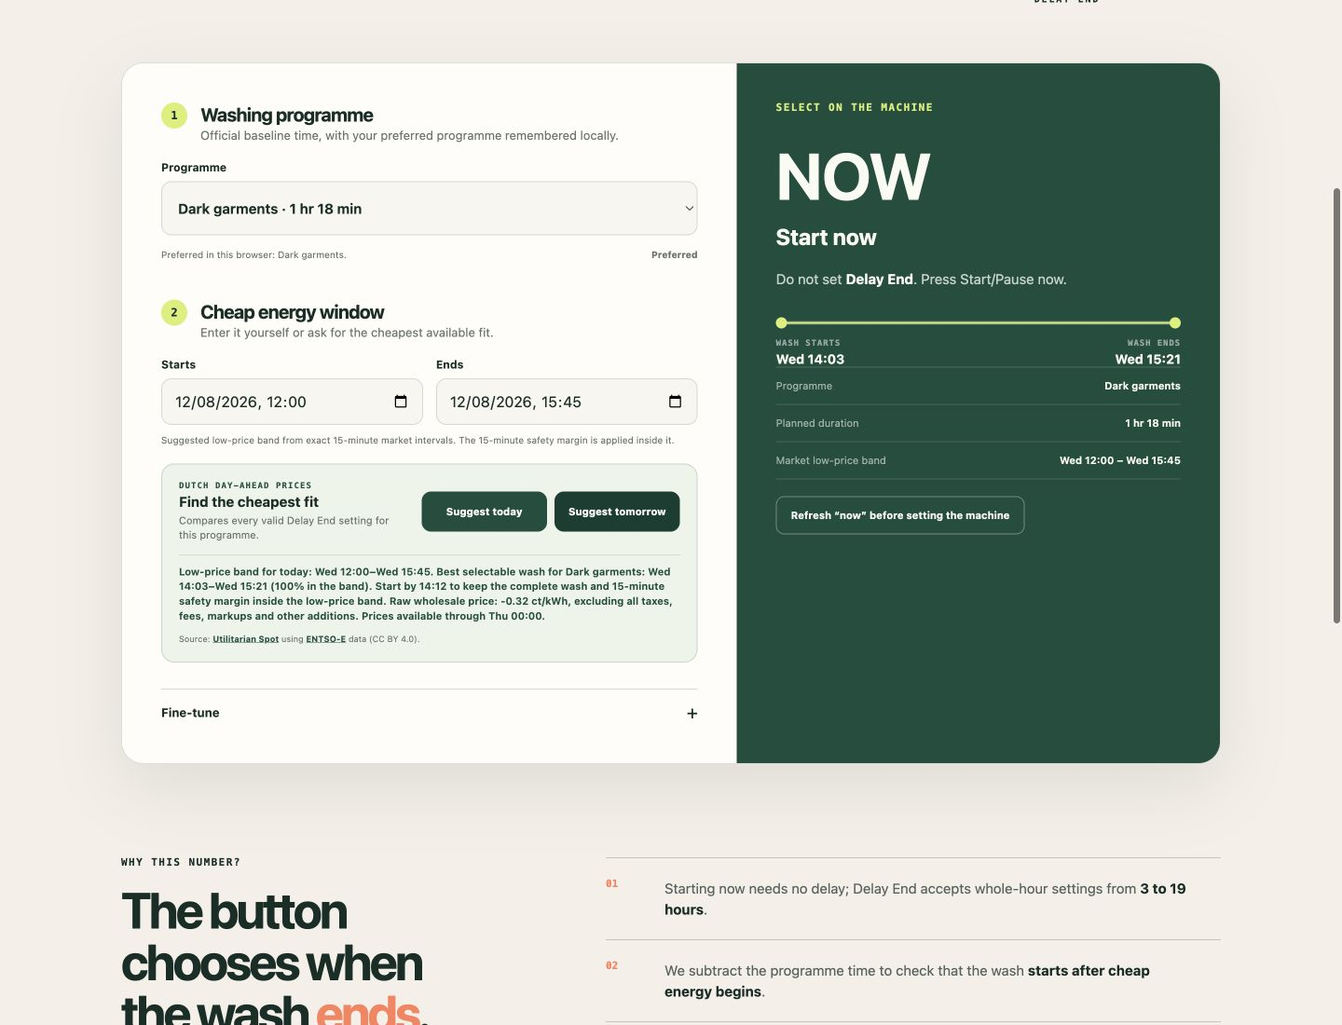
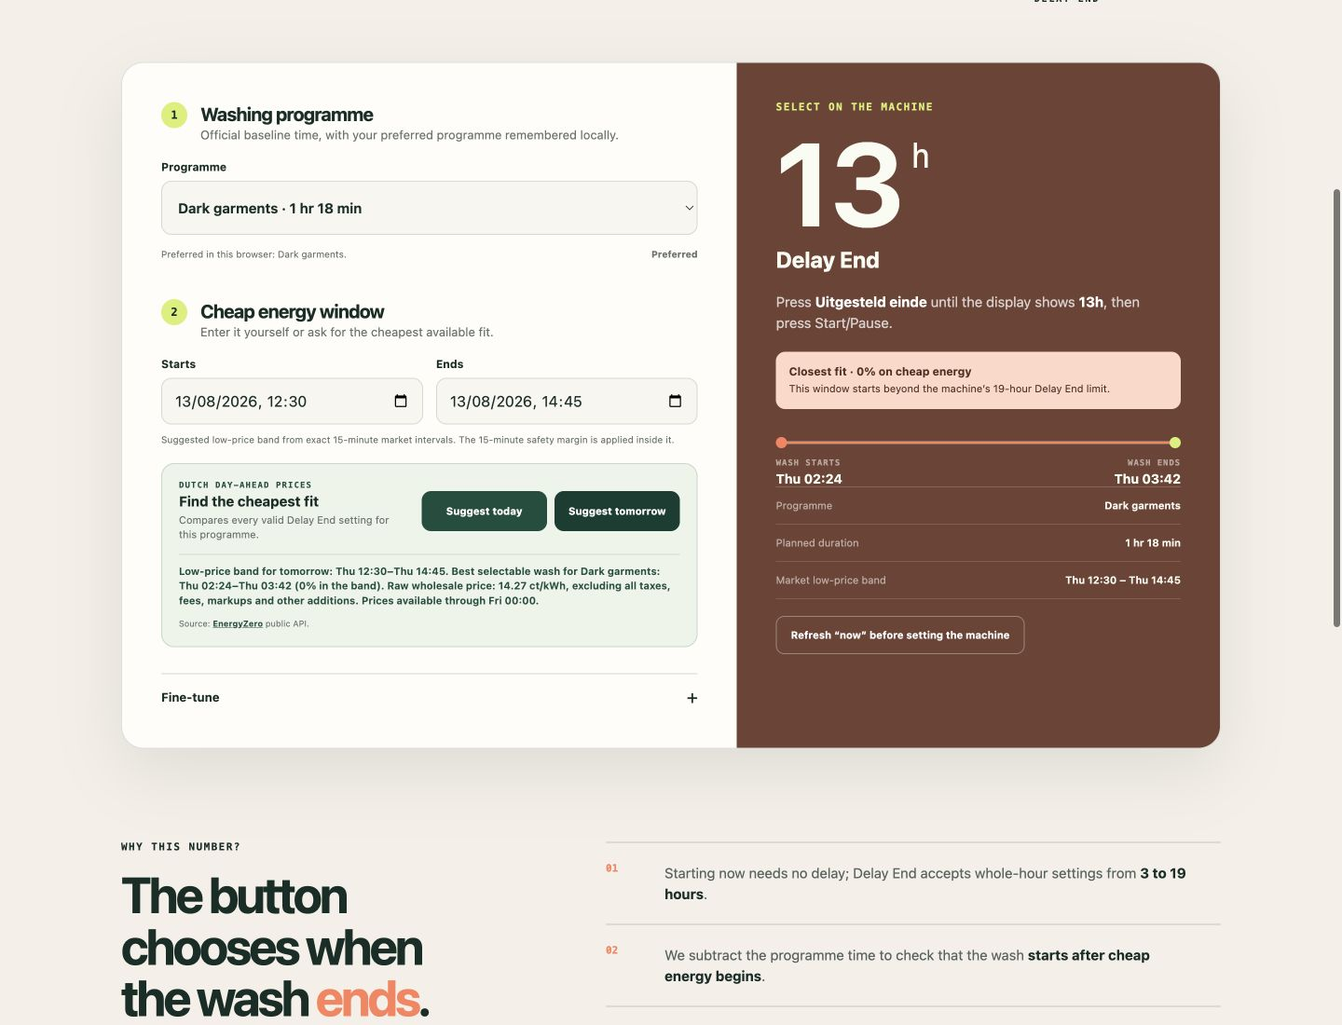
Switch market prices to EnergyZero

diff --git a/html/i18n.js b/html/i18n.js
@@ -8,7 +8,7 @@
       heroEyebrow: "CHEAP-ENERGY WASH PLANNER", heroTitle: "Set the delay.<br>Skip the maths.", heroIntro: "Tell me when electricity is cheap and what you’re washing. I’ll tell you exactly what to select on <strong>Delay End</strong>.", delayEnd: "DELAY END",
       plannerLabel: "Delay End calculator", programHeading: "Washing programme", programIntro: "Official baseline time, with your preferred programme remembered locally.", programLabel: "Programme",
       windowHeading: "Cheap energy window", windowIntro: "Enter it yourself or ask for the cheapest available fit.", starts: "Starts", ends: "Ends", manualWindow: "Manual cheap-energy window.", marketWindow: "Suggested low-price band from exact 15-minute market intervals. The {margin}-minute safety margin is applied inside it.",
-      marketEyebrow: "DUTCH DAY-AHEAD PRICES", marketHeading: "Find the cheapest fit", marketIntro: "Compares every valid Delay End setting for this programme.", suggestToday: "Suggest today", suggestTomorrow: "Suggest tomorrow", checking: "Checking…", marketDefault: "The shown price is the raw wholesale market price, excluding all taxes, fees, supplier markups and other additions. Fetched only when you ask.", marketSource: "Source: <a href=\"https://spot.utilitarian.io/developer/\" rel=\"noreferrer\">Utilitarian Spot</a> using <a href=\"https://transparency.entsoe.eu/\" rel=\"noreferrer\">ENTSO-E</a> data (CC BY 4.0).",
+      marketEyebrow: "DUTCH DAY-AHEAD PRICES", marketHeading: "Find the cheapest fit", marketIntro: "Compares every valid Delay End setting for this programme.", suggestToday: "Suggest today", suggestTomorrow: "Suggest tomorrow", checking: "Checking…", marketDefault: "The shown price is the raw wholesale market price, excluding all taxes, fees, supplier markups and other additions. Fetched only when you ask.", marketSource: "Source: <a href=\"https://consumenten.energyzero.nl/actuele-tarieven\" rel=\"noreferrer\">EnergyZero</a> public API.",
       fineTune: "Fine-tune", tuneHeading: "Make it match your machine", tuneIntro: "Optional—defaults already work.", settingAt: "Setting the machine at", now: "Now", measured: "Your measured programme time", savedDevice: "Saved on this device.", margin: "Edge safety margin", noMargin: "No margin", minutes: "{count} minutes", addPrewash: "Add prewash", prewashNote: "Samsung says this adds about 18 minutes.",
       selectMachine: "SELECT ON THE MACHINE", readyHeading: "Ready when you are", readyText: "Choose a valid window to see the Delay End setting.",
       whyEyebrow: "WHY THIS NUMBER?", whyTitle: "The button chooses when the wash <em>ends</em>.", why1: "Starting now needs no delay; Delay End accepts whole-hour settings from <strong>3 to 19 hours</strong>.", why2: "We subtract the programme time to check that the wash <strong>starts after cheap energy begins</strong>.", why3: "We centre the cycle in the window where possible, leaving room for <strong>real-world timing drift</strong>.",
@@ -16,7 +16,7 @@
       compatibility: "COMPATIBILITY", compatibilityTitle: "Built for one Samsung family.<br><em>More machines later.</em>", compatibilityIntro: "The timings and Delay End rules currently come from one shared Samsung manual. No other brand is assumed compatible yet.", verified: "PHYSICALLY VERIFIED", exactMachine: "The exact machine used to create and check this calculator.", sameManual: "SAME SAMSUNG MANUAL", familyText: "Y4BK and B4BK families are covered by the same official programme table. Regional suffixes may differ.", future: "FUTURE", otherModels: "Other brands &amp; models", futureText: "The programme data is isolated in the app, ready for model selection and additional verified manuals later.", footerText: "Made for one very specific Samsung—and one less piece of mental arithmetic.", githubRepo: "View source on GitHub",
       dialGroup: "Dial programmes", quickGroup: "Quick wash button", cotton: "Cotton", synthetics: "Synthetics", jeans: "Jeans", bedding: "Bedding", dark: "Dark garments", daily: "Daily wash", drum: "Eco drum clean", baby: "Baby care", sports: "Outdoor care", hand: "Hand wash", wool: "Wool", quick: "Quick wash · {minutes} min",
       durationMin: "{minutes} min", durationHour: "{hours} hr", durationHoursMinutes: "{hours} hr {minutes} min", savedFor: "Saved on this device for {program}.", preferredInBrowser: "Preferred in this browser: {program}.", preferred: "Preferred", makePreferred: "Make selected preferred",
-      settingsChanged: "The settings changed. Ask again to recalculate the cheapest fit.", invalidPlanning: "Choose a valid machine-setting time first.", fetching: "Fetching the latest published Dutch day-ahead prices…", noDayFit: "No complete wash fits {day} using Start now or the machine’s 3–19 hour Delay End range.", tomorrowUnavailable: "Tomorrow’s prices are not available yet. Try again after publication, usually around 13:00.", marketSuccess: "Low-price band for {day}: {lowStart}–{lowEnd}. Best selectable wash for {program}: {start}–{end} ({percent}% in the band). {deadline} Raw wholesale price: {price} ct/kWh, excluding all taxes, fees, markups and other additions. Prices available through {available}.", startDeadline: "Start by {deadline} to keep the complete wash and {margin}-minute safety margin inside the low-price band.", startDeadlinePassed: "The {deadline} safe-start deadline has passed.", marketError: "Live prices could not be loaded. Manual window entry still works; please try the suggestion again later.", today: "today", tomorrow: "tomorrow",
+      settingsChanged: "The settings changed. Ask again to recalculate the cheapest fit.", invalidPlanning: "Choose a valid machine-setting time first.", fetching: "Fetching the latest published Dutch day-ahead prices…", noDayFit: "No complete wash fits {day} using Start now or the machine’s 3–19 hour Delay End range.", tomorrowUnavailable: "Tomorrow’s prices are not available from EnergyZero yet. They are normally published around 15:00; please try again later.", marketSuccess: "Low-price band for {day}: {lowStart}–{lowEnd}. Best selectable wash for {program}: {start}–{end} ({percent}% in the band). {deadline} Raw wholesale price: {price} ct/kWh, excluding all taxes, fees, markups and other additions. Prices available through {available}.", startDeadline: "Start by {deadline} to keep the complete wash and {margin}-minute safety margin inside the low-price band.", startDeadlinePassed: "The {deadline} safe-start deadline has passed.", marketError: "Live prices could not be loaded. Manual window entry still works; please try the suggestion again later.", today: "today", tomorrow: "tomorrow",
       invalidDate: "Choose a valid date and time.", invalidWindow: "The cheap-price end must be after its start.", noWholeFit: "No whole-hour Delay End setting keeps this complete cycle inside the window.", tooLong: "This programme is longer than the cheap-price window (including your margin).", tooEarly: "This window ends before the machine’s minimum 3-hour Delay End setting.", tooLate: "This window starts beyond the machine’s 19-hour Delay End limit.", safetyMessage: "The complete wash fits inside the displayed window, but the requested {margin}-minute safety margin is short by {used} minutes.", safetyTitle: "Fits window · safety margin short by {shortfall} min", closestTitle: "Closest fit · {percent}% on cheap energy",
       checkWindow: "Check the window", instruction: "Press <strong>Uitgesteld einde</strong> until the display shows <strong id=\"delay-inline\"></strong>, then press Start/Pause.", instructionNow: "Do not set <strong>Delay End</strong>. Press Start/Pause now.", startNowHeading: "Start now", nowReadout: "NOW", expectedTiming: "Expected wash timing", washStarts: "WASH STARTS", washEnds: "WASH ENDS", plannedDuration: "Planned duration", windowSummary: "Cheap window", marketBandSummary: "Market low-price band", refresh: "Refresh “now” before setting the machine"
     },
@@ -26,7 +26,7 @@
       heroEyebrow: "WASPLANNER VOOR GOEDKOPE STROOM", heroTitle: "Stel de tijd in.<br>Sla het rekenen over.", heroIntro: "Vertel wanneer stroom goedkoop is en welk programma je gebruikt. Ik vertel precies wat je bij <strong>Uitgesteld einde</strong> moet instellen.", delayEnd: "UITGESTELD EINDE",
       plannerLabel: "Calculator voor Uitgesteld einde", programHeading: "Wasprogramma", programIntro: "Officiële basistijd, met je voorkeursprogramma lokaal onthouden.", programLabel: "Programma",
       windowHeading: "Goedkope-stroomvenster", windowIntro: "Vul het zelf in of laat het goedkoopste passende moment zoeken.", starts: "Begint", ends: "Eindigt", manualWindow: "Handmatig goedkoop stroomvenster.", marketWindow: "Voorgestelde lage-prijsperiode uit exacte marktkwartieren. De veiligheidsmarge van {margin} minuten wordt daarbinnen toegepast.",
-      marketEyebrow: "NEDERLANDSE DAY-AHEADPRIJZEN", marketHeading: "Vind het goedkoopste moment", marketIntro: "Vergelijkt elke geldige instelling voor Uitgesteld einde voor dit programma.", suggestToday: "Vandaag voorstellen", suggestTomorrow: "Morgen voorstellen", checking: "Controleren…", marketDefault: "De getoonde prijs is de kale beursprijs, exclusief alle belastingen, kosten, leveranciersopslagen en andere toevoegingen. Alleen opgehaald wanneer je erom vraagt.", marketSource: "Bron: <a href=\"https://spot.utilitarian.io/developer/\" rel=\"noreferrer\">Utilitarian Spot</a> met gegevens van <a href=\"https://transparency.entsoe.eu/\" rel=\"noreferrer\">ENTSO-E</a> (CC BY 4.0).",
+      marketEyebrow: "NEDERLANDSE DAY-AHEADPRIJZEN", marketHeading: "Vind het goedkoopste moment", marketIntro: "Vergelijkt elke geldige instelling voor Uitgesteld einde voor dit programma.", suggestToday: "Vandaag voorstellen", suggestTomorrow: "Morgen voorstellen", checking: "Controleren…", marketDefault: "De getoonde prijs is de kale beursprijs, exclusief alle belastingen, kosten, leveranciersopslagen en andere toevoegingen. Alleen opgehaald wanneer je erom vraagt.", marketSource: "Bron: openbare API van <a href=\"https://consumenten.energyzero.nl/actuele-tarieven\" rel=\"noreferrer\">EnergyZero</a>.",
       fineTune: "Fijn afstellen", tuneHeading: "Pas het aan jouw machine aan", tuneIntro: "Optioneel—de standaardwaarden werken al.", settingAt: "Machine instellen om", now: "Nu", measured: "Jouw gemeten programmaduur", savedDevice: "Op dit apparaat opgeslagen.", margin: "Veiligheidsmarge aan de rand", noMargin: "Geen marge", minutes: "{count} minuten", addPrewash: "Voorwas toevoegen", prewashNote: "Volgens Samsung duurt dit ongeveer 18 minuten extra.",
       selectMachine: "KIES OP DE MACHINE", readyHeading: "Klaar wanneer jij dat bent", readyText: "Kies een geldig venster om de instelling te zien.",
       whyEyebrow: "WAAROM DIT GETAL?", whyTitle: "De knop bepaalt wanneer de was <em>eindigt</em>.", why1: "Direct starten heeft geen uitstel nodig; Uitgesteld einde accepteert hele uren van <strong>3 tot en met 19 uur</strong>.", why2: "We trekken de programmaduur af om te controleren dat de was <strong>na het begin van de goedkope stroom start</strong>.", why3: "Waar mogelijk centreren we de was in het venster, met ruimte voor <strong>afwijkingen in de werkelijke duur</strong>.",
@@ -34,7 +34,7 @@
       compatibility: "COMPATIBILITEIT", compatibilityTitle: "Gebouwd voor één Samsung-familie.<br><em>Later meer machines.</em>", compatibilityIntro: "De tijden en regels voor Uitgesteld einde komen nu uit één gedeelde Samsung-handleiding. Andere merken worden nog niet als compatibel beschouwd.", verified: "FYSIEK GECONTROLEERD", exactMachine: "De exacte machine waarmee deze calculator is gemaakt en gecontroleerd.", sameManual: "DEZELFDE SAMSUNG-HANDLEIDING", familyText: "De Y4BK- en B4BK-families staan in dezelfde officiële programmatabel. Regionale achtervoegsels kunnen verschillen.", future: "TOEKOMST", otherModels: "Andere merken en modellen", futureText: "De programmagegevens staan apart in de app, klaar voor modelkeuze en later geverifieerde handleidingen.", footerText: "Gemaakt voor één heel specifieke Samsung—en één rekensom minder in je hoofd.", githubRepo: "Bekijk de broncode op GitHub",
       dialGroup: "Draaiknopprogramma's", quickGroup: "Knop Kort programma", cotton: "Katoen", synthetics: "Synthetisch", jeans: "Jeans", bedding: "Beddengoed", dark: "Donkere kleding", daily: "Dagelijkse was", drum: "Eco trommelreiniging", baby: "Babykleding", sports: "Outdoorkleding", hand: "Handwas", wool: "Wol", quick: "Kort programma · {minutes} min",
       durationMin: "{minutes} min", durationHour: "{hours} uur", durationHoursMinutes: "{hours} uur {minutes} min", savedFor: "Op dit apparaat opgeslagen voor {program}.", preferredInBrowser: "Voorkeur in deze browser: {program}.", preferred: "Voorkeur", makePreferred: "Maak selectie voorkeur",
-      settingsChanged: "De instellingen zijn gewijzigd. Laat het goedkoopste moment opnieuw berekenen.", invalidPlanning: "Kies eerst een geldige tijd waarop je de machine instelt.", fetching: "De nieuwste Nederlandse day-aheadprijzen ophalen…", noDayFit: "Geen volledige was past {day} via Start nu of het bereik van 3–19 uur voor Uitgesteld einde.", tomorrowUnavailable: "De prijzen voor morgen zijn nog niet beschikbaar. Probeer het na publicatie opnieuw, meestal rond 13:00.", marketSuccess: "De lage-prijsperiode voor {day} is {lowStart}–{lowEnd}. Beste instelbare was met {program}: {start}–{end} ({percent}% binnen de periode). {deadline} Kale beursprijs: {price} ct/kWh, exclusief alle belastingen, kosten, opslagen en andere toevoegingen. Prijzen beschikbaar tot {available}.", startDeadline: "Start uiterlijk om {deadline} om de volledige was én {margin} minuten veiligheidsmarge binnen de lage-prijsperiode te houden.", startDeadlinePassed: "De veilige starttijd van {deadline} is verstreken.", marketError: "Live prijzen konden niet worden geladen. Handmatig invoeren blijft werken; probeer het later opnieuw.", today: "vandaag", tomorrow: "morgen",
+      settingsChanged: "De instellingen zijn gewijzigd. Laat het goedkoopste moment opnieuw berekenen.", invalidPlanning: "Kies eerst een geldige tijd waarop je de machine instelt.", fetching: "De nieuwste Nederlandse day-aheadprijzen ophalen…", noDayFit: "Geen volledige was past {day} via Start nu of het bereik van 3–19 uur voor Uitgesteld einde.", tomorrowUnavailable: "De prijzen voor morgen zijn nog niet beschikbaar bij EnergyZero. Ze verschijnen normaal rond 15:00; probeer het later opnieuw.", marketSuccess: "De lage-prijsperiode voor {day} is {lowStart}–{lowEnd}. Beste instelbare was met {program}: {start}–{end} ({percent}% binnen de periode). {deadline} Kale beursprijs: {price} ct/kWh, exclusief alle belastingen, kosten, opslagen en andere toevoegingen. Prijzen beschikbaar tot {available}.", startDeadline: "Start uiterlijk om {deadline} om de volledige was én {margin} minuten veiligheidsmarge binnen de lage-prijsperiode te houden.", startDeadlinePassed: "De veilige starttijd van {deadline} is verstreken.", marketError: "Live prijzen konden niet worden geladen. Handmatig invoeren blijft werken; probeer het later opnieuw.", today: "vandaag", tomorrow: "morgen",
       invalidDate: "Kies een geldige datum en tijd.", invalidWindow: "Het einde van het goedkope venster moet na het begin liggen.", noWholeFit: "Geen instelling in hele uren houdt deze volledige was binnen het venster.", tooLong: "Dit programma duurt langer dan het goedkope venster (inclusief marge).", tooEarly: "Dit venster eindigt vóór de minimale instelling van 3 uur.", tooLate: "Dit venster begint na de maximale instelling van 19 uur.", safetyMessage: "De volledige was past in het getoonde venster, maar de gevraagde veiligheidsmarge van {margin} minuten komt {used} minuten tekort.", safetyTitle: "Past in venster · veiligheidsmarge {shortfall} min te kort", closestTitle: "Beste benadering · {percent}% op goedkope stroom",
       checkWindow: "Controleer het venster", instruction: "Druk op <strong>Uitgesteld einde</strong> tot het display <strong id=\"delay-inline\"></strong> toont en druk daarna op Start/Pauze.", instructionNow: "Stel <strong>Uitgesteld einde</strong> niet in. Druk nu op Start/Pauze.", startNowHeading: "Start nu", nowReadout: "NU", expectedTiming: "Verwachte wastijden", washStarts: "WAS START", washEnds: "WAS EINDIGT", plannedDuration: "Geplande duur", windowSummary: "Goedkoop venster", marketBandSummary: "Lage-prijsperiode", refresh: "Vernieuw ‘nu’ voordat je de machine instelt"
     }

diff --git a/html/market-prices.js b/html/market-prices.js
@@ -1,9 +1,28 @@
 (() => {
   "use strict";
 
-  const API_URL = "https://spot.utilitarian.io/electricity/NL/latest/";
+  const API_URL = "https://public.api.energyzero.nl/public/v1/prices";
   const minute = 60000;
   const hour = 60 * minute;
+
+  function priceUrl(referenceDate) {
+    const date = new Date(referenceDate);
+    const day = String(date.getDate()).padStart(2, "0");
+    const month = String(date.getMonth() + 1).padStart(2, "0");
+    const params = new URLSearchParams({
+      energyType: "ENERGY_TYPE_ELECTRICITY",
+      date: `${day}-${month}-${date.getFullYear()}`,
+      interval: "INTERVAL_QUARTER"
+    });
+    return `${API_URL}?${params}`;
+  }
+
+  function energyZeroPricePoints(payload) {
+    return (Array.isArray(payload?.base) ? payload.base : []).map((item) => ({
+      timestamp: item.start,
+      value: Number(item.price?.value) * 1000
+    })).filter((item) => Number.isFinite(item.value));
+  }
 
   function normalisePricePoints(rawPoints) {
     const points = (Array.isArray(rawPoints) ? rawPoints : [])
@@ -112,5 +131,5 @@
   }
 
   const scope = typeof window === "undefined" ? globalThis : window;
-  scope.LaundryMarketPrices = { API_URL, findCheapestSchedule, findLowPriceWindow, hasPricesForDay, latestSafeStart, normalisePricePoints, timelineCoverage };
+  scope.LaundryMarketPrices = { API_URL, energyZeroPricePoints, findCheapestSchedule, findLowPriceWindow, hasPricesForDay, latestSafeStart, normalisePricePoints, priceUrl, timelineCoverage };
 })();

diff --git a/html/index.html b/html/index.html
@@ -68,7 +68,7 @@
             <button id="suggest-tomorrow" type="button" data-suggest-day="1" data-i18n="suggestTomorrow">Suggest tomorrow</button>
           </div>
           <p class="market-status" id="market-status" aria-live="polite" data-i18n="marketDefault">The shown price is the raw wholesale market price, excluding all taxes, fees, supplier markups and other additions. Fetched only when you ask.</p>
-          <small data-i18n-html="marketSource">Source: <a href="https://spot.utilitarian.io/developer/" rel="noreferrer">Utilitarian Spot</a> using <a href="https://transparency.entsoe.eu/" rel="noreferrer">ENTSO-E</a> data (CC BY 4.0).</small>
+          <small data-i18n-html="marketSource">Source: <a href="https://consumenten.energyzero.nl/actuele-tarieven" rel="noreferrer">EnergyZero</a> public API.</small>
         </div>
 
         <button class="advanced-toggle" id="advanced-toggle" type="button" aria-expanded="false"><b data-i18n="fineTune">Fine-tune</b> <span aria-hidden="true">+</span></button>

diff --git a/html/app.js b/html/app.js
@@ -201,9 +201,9 @@
     setMarketStatus(t("fetching"));
 
     try {
-      const response = await fetch(marketPrices.API_URL);
+      const response = await fetch(marketPrices.priceUrl(planning));
       if (!response.ok) throw new Error(`Price service returned ${response.status}`);
-      const points = await response.json();
+      const points = marketPrices.energyZeroPricePoints(await response.json());
       const best = marketPrices.findCheapestSchedule(points, planning, cycleMinutes(), dayOffset);
       const cheapWindow = marketPrices.findLowPriceWindow(points, planning, dayOffset);
       const intervals = marketPrices.normalisePricePoints(points);

diff --git a/README.md b/README.md
@@ -7,7 +7,7 @@ A tiny, dependency-free planner for the **Samsung WF702Y4BKWQ/EN** washing machi
 The calculator runs entirely in the browser. It has no analytics, cookies, server-side code, build step, or package manager. On request, it downloads the latest Dutch day-ahead market-price feed to suggest the cheapest available schedule. The footer loads the optional Buy Me a Coffee button and its Bree Serif font from third-party CDNs. All publicly served files live under [`html/`](html/); repository documentation, tests, screenshots, and deployment configuration stay outside the web root.
 
 > [!NOTE]
-> The price button fetches the same public Netherlands feed URL for every visitor; programme, timing, and planning values are never added to that request or sent elsewhere. As with any web request, the price provider receives ordinary connection metadata such as the visitor's IP address. The footer support button separately loads JavaScript from `cdnjs.buymeacoffee.com`, loads a font from Google Fonts, and links to `buymeacoffee.com/roels`.
+> The price buttons call EnergyZero’s public API with the requested calendar date; programme, duration, and other planning values are never sent. As with any web request, the price provider receives ordinary connection metadata such as the visitor's IP address. The footer support button separately loads JavaScript from `cdnjs.buymeacoffee.com`, loads a font from Google Fonts, and links to `buymeacoffee.com/roels`.
 
 ## Screenshots
 
@@ -34,7 +34,9 @@ The calculator runs entirely in the browser. It has no analytics, cookies, serve
 
 ## Live market-price suggestions
 
-The **Suggest today** and **Suggest tomorrow** buttons download Netherlands day-ahead prices from [Utilitarian Spot](https://spot.utilitarian.io/developer/). Tomorrow is offered as soon as both its prices and a valid 3–19 hour machine setting are available. The values originate from the ENTSO-E Transparency Platform and are supplied in `€/MWh` at the market’s available resolution, currently 15 minutes for the Netherlands.
+The **Suggest today** and **Suggest tomorrow** buttons download Dutch prices from [EnergyZero’s public API](https://external.docs.api.staging.energyzero.nl/docs/api/rest/public/public-api/). Its `base` stream supplies the raw market price in `€/kWh` at 15-minute resolution, without VAT or other additions. Laundry Window converts that stream to `€/MWh` internally and offers tomorrow as soon as both its prices and a valid washer setting are available.
+
+EnergyZero states that next-day electricity prices normally appear around **15:00**. The previous Utilitarian mirror sometimes lagged after the underlying market had already published; it has been removed from the application.
 
 Laundry Window evaluates the real duration of the selected programme against immediate Start now and every whole-hour Delay End choice from 3–19 hours. It recommends the reachable cycle with the lowest duration-weighted average market price. For today, it also shows the latest safe-start time that keeps the full cycle and selected safety margin inside the low-price band.
 

diff --git a/docs/SOURCES.md b/docs/SOURCES.md
@@ -37,12 +37,14 @@ Laundry Window therefore centres a cycle within the selected cheap-energy window
 
 ## Market-price source
 
-The optional live suggestion uses the public Netherlands endpoint from [Utilitarian Spot](https://spot.utilitarian.io/developer/):
+The optional live suggestion uses [EnergyZero’s public price API](https://external.docs.api.staging.energyzero.nl/docs/api/rest/public/public-api/):
 
-`https://spot.utilitarian.io/electricity/NL/latest/`
+`https://public.api.energyzero.nl/public/v1/prices`
 
-The provider documents that the endpoint needs no API key, enables browser CORS requests, contains today and tomorrow when the day-ahead data is published, and returns timestamps in UTC with prices in `€/MWh`. It attributes the underlying records to the [ENTSO-E Transparency Platform](https://transparency.entsoe.eu/) under [CC BY 4.0](https://creativecommons.org/licenses/by/4.0/) and describes the service as best-effort without uptime or accuracy guarantees.
+The request specifies electricity, a Dutch calendar date, and `INTERVAL_QUARTER`. No API key is required and the response permits browser CORS requests. Laundry Window reads only the `base` stream: raw market prices in `€/kWh` without VAT, purchasing fees, taxes, or other additions. It ignores the API’s `base_with_vat`, `all_in`, and `all_in_with_vat` streams.
 
-Laundry Window fetches the endpoint only after the user presses **Suggest window**. No selected programme, time, measured duration, or other browser-stored setting is included in the request. The optimiser compares only complete cycles permitted by the washing machine’s 3–19 hour Delay End choices and weights every covered market interval by the amount of the cycle that overlaps it.
+[EnergyZero’s consumer price page](https://consumenten.energyzero.nl/actuele-tarieven) states that next-day electricity prices normally appear around 15:00 and confirms quarter-hour pricing. On 12 August 2026, its API already returned all 96 quarter-hours for 13 August while the previous Utilitarian feed still contained only 12 August; this discrepancy prompted the provider switch.
+
+Laundry Window fetches the endpoint only after the user presses **Suggest today** or **Suggest tomorrow**. The request includes only the calendar date and fixed energy/interval parameters; no selected programme, measured duration, or other browser-stored setting is included. The optimiser compares immediate start and complete cycles permitted by the washing machine’s 3–19 hour Delay End choices, weighting every covered market interval by the amount of the cycle that overlaps it.
 
 The result is a market-price signal, not a complete consumer tariff. Taxes, VAT, supplier markups, and other contract-specific components are excluded.
